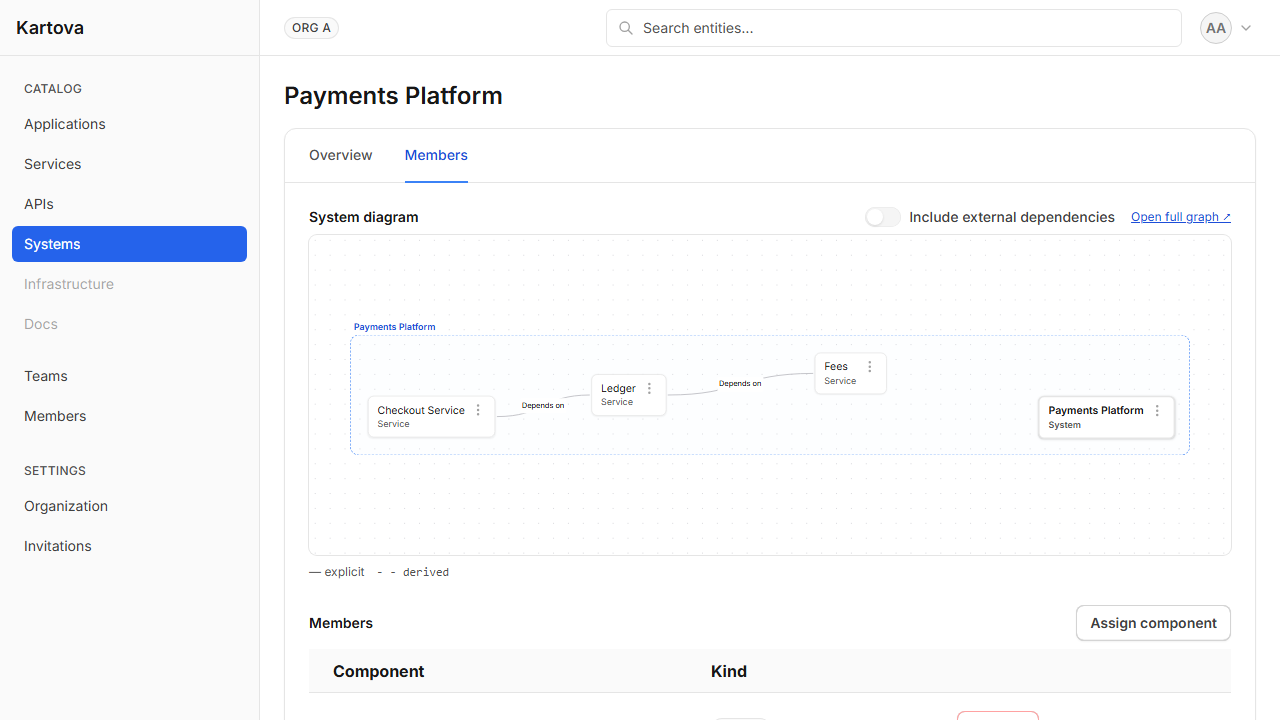
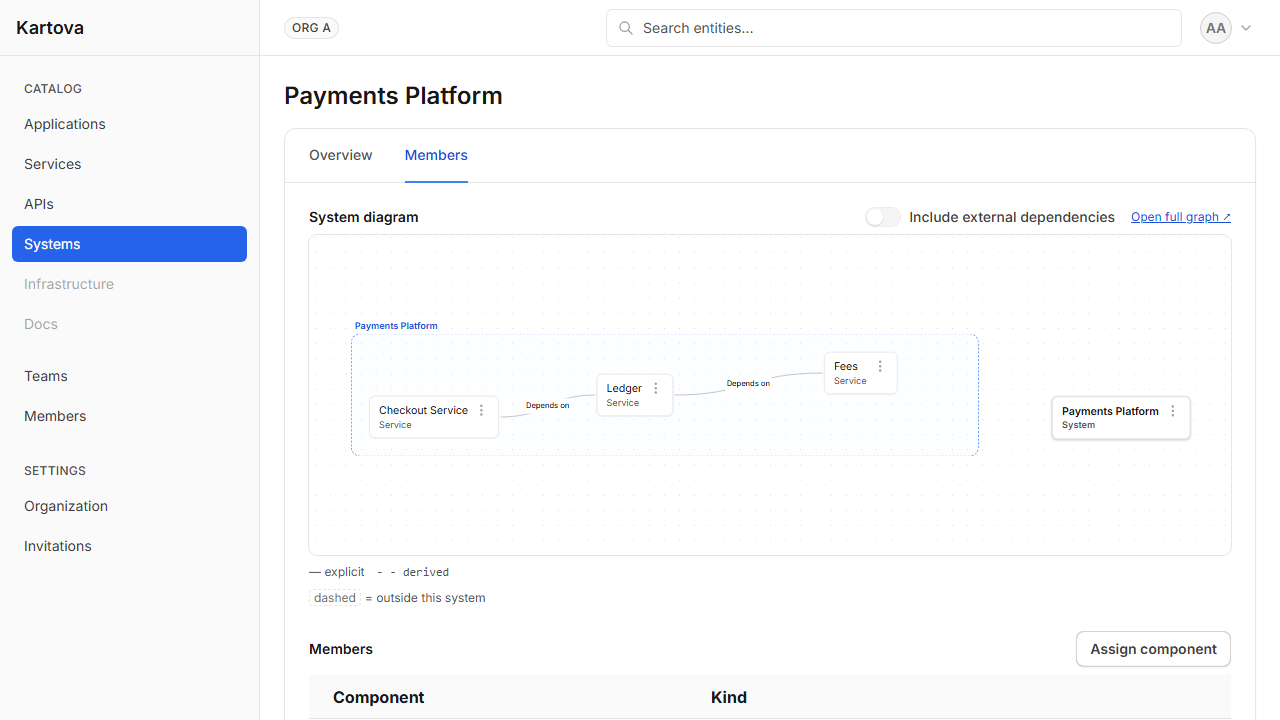
docs(verification): gate 9 passes on the fix — non-members marked, band tightened
Re-ran the same probe against cc508e89. The band now covers the members only, 351-979 instead of 350-1190, so Notifier Service at 1052-1170 falls outside it and the empty-canvas stretch is gone. Both non-members carry the dashed border and muted label, no member does, and the console is clean.

The empty EXTERNALS_INSIDE_BAND result is trustworthy this time because the same run reports both non-members found and marked — on the probe first attempt that same empty result was vacuous, produced by a matcher that compared display names by equality against DOM text that concatenates name and kind. The probe now also asserts the per-node marking directly, which is the property the amended decision actually rests on: the signal must hold wherever dagre places a node, not only where the geometry happens to cooperate.

Keeps the original failure in the ledger rather than overwriting it. The failure is the more useful half of the record — it is the one thing in this slice that no unit test could have found, because the repo xyflow mock renders labels only, and it is the concrete answer to why gate 9 does not fold into the automated suite.

Records one new observation from the fixed screen: the focus System node now sits outside its own band and reads a little orphaned. That is the trade-off decision 4a accepted, but seeing it makes the follow-up of dropping the node entirely more attractive than it looked on paper. Deferred, not silently accepted.

diff --git a/e2e/tests/gate9-band.spec.ts b/e2e/tests/gate9-band.spec.ts
@@ -20,10 +20,13 @@ async function geometry(page: import("@playwright/test").Page) {
     const bandRect = band?.getBoundingClientRect();
     const nodes = [...document.querySelectorAll<HTMLElement>(".react-flow__node-entity")].map((n) => {
       const r = n.getBoundingClientRect();
+      const card = n.querySelector<HTMLElement>("div");
       return {
         label: (n.querySelector("div > div")?.textContent ?? "").trim(),
         left: Math.round(r.left), top: Math.round(r.top),
         right: Math.round(r.right), bottom: Math.round(r.bottom),
+        // spec §3 row 7a: the outside-this-system state is a dashed border on the node card.
+        dashed: (card?.className ?? "").includes("border-dashed"),
       };
     });
     return {
@@ -81,4 +84,12 @@ test("gate 9 — boundary band vs external nodes", async ({ page }) => {
   console.log("EXTERNALS_INSIDE_BAND " + JSON.stringify(externalsInsideBand));
   console.log("MEMBERS_OUTSIDE_BAND " + JSON.stringify(membersOutsideBand));
   console.log("CONSOLE_ERRORS " + JSON.stringify(consoleErrors));
+
+  // spec §3 row 7a — the signal is per node, so it must hold regardless of where dagre put anything.
+  const externals = after.nodes.filter(named(EXTERNALS));
+  const members = after.nodes.filter(named(MEMBERS));
+  console.log("EXTERNALS_MARKED " + JSON.stringify(externals.map((n) => [n.label, n.dashed])));
+  console.log("MEMBERS_MARKED " + JSON.stringify(members.map((n) => [n.label, n.dashed])));
+  expect(externals.every((n) => n.dashed), "every non-member must be marked outside").toBe(true);
+  expect(members.some((n) => n.dashed), "no member may be marked outside").toBe(false);
 });

diff --git a/docs/superpowers/verification/2026-08-05-catalog-system-graph-nodes/dod.md b/docs/superpowers/verification/2026-08-05-catalog-system-graph-nodes/dod.md
@@ -7,7 +7,7 @@
 **Execution:** `superpowers:subagent-driven-development` — 11 tasks, fresh implementer + task review each, then one whole-branch review and one consolidated fix wave. SDD ledger with per-task detail: `.superpowers/sdd/2026-08-05-catalog-system-graph-nodes/progress.md` (gitignored; **kept, not deleted**, until gates 4–10 close — it holds the per-task reports those gates may need to cite).
 **Findings telemetry:** `./gate-findings.yaml`
 
-> ⚠ **Honest status: gate 9 FAILED — a real defect is open.** An external non-member renders inside the boundary band, which disproves spec §3 decision 7 (see gate 9 below). Gates 1, 4, 5, 7, 10 and the terminal re-verify have not run. This slice is **not** complete and must not be described as merge-ready.
+> ⚠ **Honest status: gates 2, 3, 6 and 9 pass; gates 1, 4, 5, 7, 10 and the terminal re-verify have NOT run.** Gate 9 failed on its first run, forced a spec amendment (§3.1) and passes on the fix. This slice is **not** complete and must not be described as merge-ready until the remaining six gates run.
 
 ## Summary
 
@@ -22,7 +22,7 @@
 | 7 `review-pr` | ⏳ PENDING | — |
 | 8 `deep-review` | ⏳ PENDING | — |
 | Terminal re-verify (build + suite) | ⏳ PENDING | — |
-| 9 Visual / API verification (ADR-0084) | ❌ FAIL | 2026-08-06 |
+| 9 Visual / API verification (ADR-0084) | ✅ PASS (after fix) | 2026-08-06 |
 | 10 CI green on PR | ⏳ PENDING | — |
 
 ## Gate detail
@@ -68,7 +68,24 @@ One consolidated fix wave (`6cd82963`, `b05cc2a6`) closed **F1–F8 and all four
 **Status:** ⏳ PENDING — owed after gates 5, 7 and 8 run and apply any fixes. The frontend half is already green on `b05cc2a6` (988/988, tsc exit 0); the solution build is the missing piece.
 
 ### 9 — Visual / API verification (observe the running system)
-**Status:** ❌ **FAIL — ran 2026-08-06 and disproved spec §3 decision 7.** An external non-member renders inside the boundary band. Awaiting the owner's ruling on the remedy; the gate cannot pass until the diagram carries a truthful member signal.
+**Status:** ✅ **PASS at `cc508e89`, after failing at `58fa2e61` and forcing a spec amendment.** The gate's first run disproved spec §3 decision 7 — an external non-member rendered inside the boundary band. The owner chose remedy **C**; decisions **7a** and **4a** were written into the spec (§3.1) and implemented, and the same probe now passes against the fixed build. Both states are recorded below, because the failure is the more useful half of the record.
+
+#### Re-run after the fix (`cc508e89`) — measured, same probe
+
+| Element | x | y | marked outside? |
+|---|---|---|---|
+| band (members only) | **351–979** | 355–441 | — |
+| `Notifier Service` (non-member) | **1052–1170** | 373–415 | **yes** |
+| `Auth Service` (non-member) | 824–929 | 300–343 | **yes** |
+| `Ledger` / `Fees` / `Checkout Service` (members) | inside | inside | no |
+
+`EXTERNALS_INSIDE_BAND` is now empty **and the matcher is proven live** — the same run reports both non-members found and marked, so the empty result is a real one rather than the vacuous one this probe produced on its first attempt. Console clean. The band tightened from 350–1190 to 351–979, so the empty-canvas stretch is gone as well.
+
+The per-node signal reads correctly and, crucially, **legibly**: the two non-members carry a dashed border and a muted label with a `dashed = outside this system` legend row, rather than the 30% opacity that would have hidden the very nodes the toggle exists to reveal. That was the reason spec 7a rejected reusing `layoutGraph`'s `dimmed` channel.
+
+**One thing to look at with human eyes before merge:** the focus System node now sits outside its own band, detached at the lower right, and reads a little orphaned — it is the trade-off spec 4a records, but seeing it makes the "drop the System node from the diagram entirely" follow-up (spec §3.1) look more attractive than it did on paper. Not blocking; the band already carries the System's name.
+
+**Original failure, retained — this is what the gate caught:**
 
 **What was driven.** Real stack (`docker compose`: postgres + keycloak + migrator + api) with the **vite dev server on 5173** for the web tier — deliberately not the 4173 container, whose image predates this branch and would have verified nothing. Seeded through the product's own API: System *Payments Platform*, three member services (*Ledger*, *Fees*, *Checkout Service*) assigned via `PUT /catalog/services/{id}/system`, two inter-member `dependsOn` edges, and three external `dependsOn` edges to two non-member services (*Auth Service*, *Notifier Service*) — the "≥2 members with external dependencies" recipe this ledger asked for. Driven in-SPA (ADR-0084) via Playwright with the repo's own `e2e/fixtures/auth.ts` login. Probe: `e2e/tests/gate9-band.spec.ts` (a probe, not yet a regression spec). Evidence: `gate9-band-toggle-off.png`, `gate9-band-toggle-on.png`.
 
